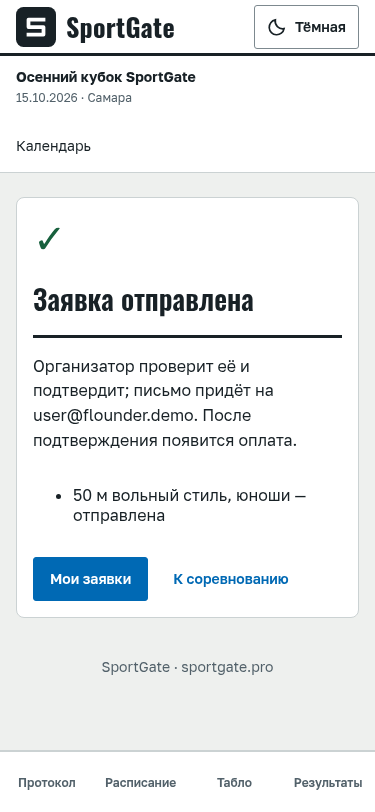
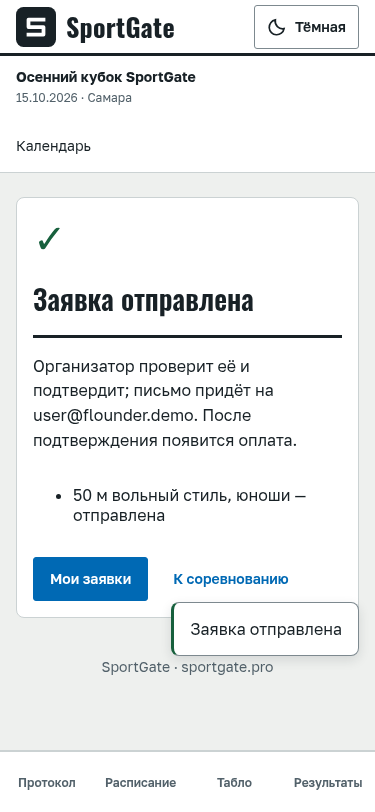
fix(public): cover registration steps in QA06 and size mobile actions

Changed region(s): [[0.4987, 0.7389, 0.9093, 0.8005], [0.44, 0.7389, 0.4693, 0.8005], [0.9387, 0.7389, 0.968, 0.7697]]

diff --git a/sport-platform/frontend/e2e/qa06-d03-register.spec.ts b/sport-platform/frontend/e2e/qa06-d03-register.spec.ts
@@ -1,68 +1,162 @@
-import { test, expect } from '@playwright/test'
+import { test, expect, type Page, type Locator } from '@playwright/test'
 import AxeBuilder from '@axe-core/playwright'
 import { mkdir } from 'node:fs/promises'
 import { openAuditPage, scenario } from './qa06-helpers'
+import type { RegistrationRequest } from '../src/features/public/public.types'
 
-for (const width of [375, 1366]) test(`UX-17 registration layout, errors and accessibility ${width}`, async ({ page }) => {
-  await page.setViewportSize({ width, height: width === 375 ? 812 : 768 })
-  const errors: string[] = []
-  page.on('pageerror', error => errors.push(error.message))
-  await openAuditPage(page, '/e/demo/register', 'participant')
-  const card = page.locator('section').filter({ has: page.getByRole('heading', { name: 'Заявка на участие' }) })
-  const form = card.locator('form')
-  const disciplines = page.getByRole('group', { name: 'Виды программы', exact: true })
-  await expect(disciplines).toBeVisible()
-  await expect(disciplines).toHaveAttribute('disabled', '')
-  await expect(disciplines.getByRole('checkbox').first()).toBeDisabled()
-  expect(await disciplines.getByRole('checkbox').count()).toBeGreaterThan(1)
-  await expect(page.getByText('Укажите пол и дату рождения, чтобы увидеть доступные виды', { exact: true })).toBeVisible()
-  const heading = await card.getByRole('heading', { level: 1 }).boundingBox()
-  const athlete = await page.getByRole('group', { name: 'Данные спортсмена', exact: true }).boundingBox()
-  const box = await card.boundingBox()
-  expect(box!.width).toBeLessThanOrEqual(640)
-  expect(Math.abs(box!.x + box!.width / 2 - width / 2)).toBeLessThan(2)
-  expect(heading!.y + heading!.height).toBeLessThan(athlete!.y)
-  const fields = form.locator('input:not([type=checkbox]), select')
+async function checkLayout(page: Page, form: Locator, width: number) {
+  const fields = form.locator('input:not([type=checkbox]):visible, select:visible')
+  const group = form.locator('fieldset:visible')
+  const box = (await group.boundingBox())!
   for (const field of await fields.all()) {
-    const bounds = await field.boundingBox()
-    expect(bounds!.x).toBeGreaterThanOrEqual(box!.x + 16)
-    expect(bounds!.x + bounds!.width).toBeLessThanOrEqual(box!.x + box!.width - 16)
+    const bounds = (await field.boundingBox())!
+    expect(bounds.x).toBeGreaterThanOrEqual(box.x + 16)
+    expect(bounds.x + bounds.width).toBeLessThanOrEqual(box.x + box.width - 16)
   }
-  const gender = await page.getByLabel('Пол', { exact: true }).boundingBox()
-  const club = await page.getByLabel('Клуб / город', { exact: true }).boundingBox()
-  if (width >= 640) expect(gender!.y).toBe(club!.y)
-  else expect(gender!.y + gender!.height).toBeLessThan(club!.y)
-  await expect(page.getByLabel('Дата рождения', { exact: true })).toHaveAttribute('type', 'date')
+  for (const target of await form.locator('button:visible, input:visible, select:visible').all()) {
+    const bounds = (await target.boundingBox())!
+    expect(bounds.width).toBeGreaterThanOrEqual(44)
+    expect(bounds.height).toBeGreaterThanOrEqual(44)
+    await target.scrollIntoViewIfNeeded()
+    expect(await target.evaluate(element => {
+      const bounds = element.getBoundingClientRect()
+      const hit = document.elementFromPoint(bounds.x + bounds.width / 2, bounds.y + bounds.height / 2)
+      return element === hit || element.contains(hit)
+    })).toBe(true)
+  }
+  expect(await page.evaluate(() => document.documentElement.scrollWidth)).toBeLessThanOrEqual(width)
   for (const theme of ['light', 'dark']) {
     await page.evaluate(theme => document.documentElement.dataset.theme = theme, theme)
     const audit = await new AxeBuilder({ page }).withTags(['wcag2a', 'wcag2aa', 'wcag21aa']).analyze()
     expect(audit.violations.filter(v => ['serious', 'critical'].includes(v.impact ?? ''))).toEqual([])
   }
   await page.evaluate(() => document.documentElement.dataset.theme = 'light')
+}
+
+for (const width of [375, 768, 1366]) test(`UX-17 registration layout, errors and accessibility ${width}`, async ({ page }) => {
+  await page.setViewportSize({ width, height: width === 375 ? 812 : width === 768 ? 1024 : 768 })
+  const errors: string[] = []
+  const submissions: RegistrationRequest[] = []
+  page.on('pageerror', error => errors.push(error.message))
+  page.on('request', request => {
+    if (request.method() === 'POST' && new URL(request.url()).pathname === '/api/v1/public/events/demo/registrations')
+      submissions.push(request.postDataJSON() as RegistrationRequest)
+  })
+  await openAuditPage(page, '/e/demo/register', 'participant')
+  const card = page.locator('section').filter({ has: page.getByRole('heading', { name: 'Заявка на участие' }) })
+  const form = card.locator('form')
+  const athlete = page.getByRole('group', { name: 'Участник', exact: true })
+  const disciplines = page.getByRole('group', { name: 'Виды (до трёх)', exact: true })
+  const steps = page.getByRole('navigation', { name: 'Шаги заявки' })
+  const choices = disciplines.getByRole('button', { name: /Выбрать|Выбрано/ })
+  await expect(athlete).toBeVisible()
+  await expect(disciplines).toBeHidden()
+  await expect(steps.locator('[aria-current=step]')).toHaveText('1 Спортсмен')
+  const heading = (await card.getByRole('heading', { level: 1 }).boundingBox())!
+  const box = (await card.boundingBox())!
+  expect(box.width).toBeLessThanOrEqual(640)
+  expect(heading.y + heading.height).toBeLessThan((await athlete.boundingBox())!.y)
+  if (width < 1200) expect(Math.abs(box.x + box.width / 2 - width / 2)).toBeLessThan(2)
+  else {
+    const layout = (await card.locator('..').boundingBox())!
+    const eventCard = (await page.getByRole('complementary', { name: 'О соревновании' }).boundingBox())!
+    expect(Math.abs(layout.x + layout.width / 2 - width / 2)).toBeLessThan(2)
+    expect(eventCard.width).toBe(280)
+    expect(eventCard.x + eventCard.width).toBeLessThan(box.x)
+  }
+  expect((await card.locator('h1,h2,h3,legend').allTextContents()).join(' ')).not.toMatch(/по плаванию/i)
+  const birth = page.getByLabel('Дата рождения', { exact: true })
+  const gender = page.getByLabel('Пол', { exact: true })
+  const club = page.getByLabel(/Клуб \/ город/)
+  const birthBox = (await birth.boundingBox())!
+  const genderBox = (await gender.boundingBox())!
+  const lastNameBox = (await page.getByLabel('Фамилия', { exact: true }).boundingBox())!
+  const firstNameBox = (await page.getByLabel('Имя', { exact: true }).boundingBox())!
+  if (width >= 768) {
+    expect(birthBox.y).toBe(genderBox.y)
+    expect(lastNameBox.y).toBe(firstNameBox.y)
+  } else {
+    expect(birthBox.y + birthBox.height).toBeLessThan(genderBox.y)
+    expect(lastNameBox.y + lastNameBox.height).toBeLessThan(firstNameBox.y)
+  }
+  expect(genderBox.y + genderBox.height).toBeLessThan((await club.boundingBox())!.y)
+  await expect(birth).toHaveAttribute('type', 'date')
+  await checkLayout(page, form, width)
   if (process.env.D03_CAPTURE === '1') {
     await page.evaluate(() => document.fonts.ready)
     await mkdir('../../docs/design/screenshots', { recursive: true })
     await page.screenshot({ path: `../../docs/design/screenshots/D03-v2-register-${width}.png`, fullPage: true })
   }
-  const send = page.getByRole('button', { name: 'Отправить заявку', exact: true })
-  await send.click()
+
+  // The same eligibility gate applies when the second step is opened directly.
+  await steps.getByRole('button', { name: '2 Виды и время', exact: true }).click()
+  await expect(disciplines).toBeVisible()
+  await expect(disciplines).toHaveAttribute('disabled', '')
+  expect(await choices.count()).toBeGreaterThan(1)
+  for (const choice of await choices.all()) {
+    await expect(choice).toBeDisabled()
+    expect((await choice.boundingBox())!.height).toBeGreaterThanOrEqual(56)
+  }
+  await expect(disciplines.getByRole('checkbox')).toHaveCount(0)
+  await expect(page.getByText('Укажите пол и дату рождения, чтобы увидеть доступные виды', { exact: true })).toBeVisible()
+  await steps.getByRole('button', { name: '1 Спортсмен', exact: true }).click()
+  await page.getByRole('button', { name: 'Далее: Виды и время', exact: true }).click()
   await expect(page.getByLabel('Фамилия', { exact: true })).toHaveAttribute('aria-invalid', 'true')
   await expect(page.locator('#registration-error-lastName')).toBeVisible()
+  await expect(page.getByRole('alert')).toContainText('Фамилия: Укажите фамилию спортсмена.')
+  await expect(page.getByLabel('Фамилия', { exact: true })).toBeFocused()
   await page.getByLabel('Фамилия', { exact: true }).fill('Демов')
   await page.getByLabel('Имя', { exact: true }).fill('Тимофей')
-  await page.getByLabel('Дата рождения', { exact: true }).fill('2014-04-18')
+  await birth.fill('2014-04-18')
+  await steps.getByRole('button', { name: '2 Виды и время', exact: true }).click()
   await expect(disciplines).toHaveAttribute('disabled', '')
-  await page.getByLabel('Пол', { exact: true }).selectOption('M')
+  await expect(choices.first()).toBeDisabled()
+  await steps.getByRole('button', { name: '1 Спортсмен', exact: true }).click()
+  await gender.selectOption('M')
+  await page.getByRole('button', { name: 'Далее: Виды и время', exact: true }).click()
   await expect(disciplines).not.toHaveAttribute('disabled')
-  await disciplines.getByRole('checkbox').nth(1).check()
-  await page.getByPlaceholder('мм:сс.сс').fill('003215')
-  // Clicking the consent text toggles its associated checkbox.
+  await expect(steps.locator('[aria-current=step]')).toHaveText('2 Виды и время')
+  const selectedCard = choices.filter({ hasText: '50 м вольный стиль, юноши' }).first()
+  await selectedCard.click()
+  await expect(selectedCard).toHaveAttribute('aria-pressed', 'true')
+  const seed = page.getByPlaceholder('мм:сс.сс')
+  await expect(seed).toHaveAttribute('required', '')
+  const errorId = (await seed.getAttribute('aria-describedby'))!.split(' ').find(id => id.startsWith('registration-error-'))!
+  const seedError = page.locator(`[id="${errorId}"]`)
+  const reservedHeight = (await seedError.boundingBox())!.height
+  await page.getByRole('button', { name: 'Далее: Проверка', exact: true }).click()
+  await expect(seed).toHaveAttribute('aria-invalid', 'true')
+  await expect(seedError).toHaveText('Укажите заявочное время в формате мм:сс.сс.')
+  await expect(seed).toBeFocused()
+  expect((await seedError.boundingBox())!.height).toBe(reservedHeight)
+  await seed.fill('006000')
+  await page.getByRole('button', { name: 'Далее: Проверка', exact: true }).click()
+  await expect(seedError).toHaveText('Введите ненулевое время в формате мм:сс.сс (секунды 00–59).')
+  await seed.fill('003215')
+  await expect(seed).toHaveValue('00:32.15')
+  await checkLayout(page, form, width)
+  await page.getByRole('button', { name: 'Далее: Проверка', exact: true }).click()
+  await expect(steps.locator('[aria-current=step]')).toHaveText('3 Проверка')
+  await page.reload()
+  await expect(page.getByRole('heading', { name: '3. Проверка', exact: true })).toBeVisible({ timeout: 30000 })
+  await expect(page.getByText('Демов Тимофей', { exact: true })).toBeVisible()
+  await expect(page.getByText('00:32.15', { exact: true })).toBeVisible()
+  const send = page.getByRole('button', { name: 'Отправить заявку', exact: true })
+  await expect(send).toBeDisabled()
+  await expect(page.locator('#registration-disabled-reason')).toHaveText('Необходимо согласие на обработку персональных данных.')
+  // The full consent label remains a tap target.
   await page.getByText('Я даю согласие на обработку персональных данных', { exact: true }).click()
   await expect(page.getByRole('checkbox', { name: 'Я даю согласие на обработку персональных данных' })).toBeChecked()
+  await expect(send).toBeEnabled()
   if (width === 375) expect((await send.boundingBox())!.width).toBeGreaterThan(250)
+  await checkLayout(page, form, width)
   await scenario(page, 'public/events/demo/registrations', [{ id: 'new-registration' }], 'json', 'post')
   await send.click()
   await expect(page.getByRole('heading', { name: 'Заявка отправлена' })).toBeVisible()
+  expect(submissions).toEqual([{
+    profile: { lastName: 'Демов', firstName: 'Тимофей', middleName: '', birthDate: '2014-04-18', gender: 'M', club: '' },
+    items: [{ eventDisciplineId: 'M-50-FREE', seedTimeMs: 32150 }],
+  }])
   expect(await page.evaluate(() => document.documentElement.scrollWidth)).toBeLessThanOrEqual(width)
   expect(errors).toEqual([])
 })

diff --git a/sport-platform/frontend/src/features/public/RegistrationPage.module.css b/sport-platform/frontend/src/features/public/RegistrationPage.module.css
@@ -8,9 +8,10 @@
 .form { display: grid; gap: var(--space-4); min-width: 0; }
 .form [hidden] { display: none; }
 .form fieldset { min-width: 0; background: var(--surface-1); border-radius: var(--radius-lg); }
-.form input:not([type=checkbox]), .form select { min-height: var(--control-h); font-size: var(--text-md); scroll-margin-block-end: calc(var(--control-h-lg) + var(--space-12)); }
+.form input:not([type=checkbox]), .form select { min-height: var(--control-h); font-size: var(--text-md); }
+.form :is(input, select, button) { scroll-margin-block-start: calc(var(--header-h) + var(--space-4)); scroll-margin-block-end: calc(var(--control-h-lg) + var(--control-h) + var(--space-12)); }
 .form input[type=date] { display: block; max-width: 100%; }
-.form :global(.fl-field) { gap: var(--space-2); }
+.form :global(.fl-field) { gap: var(--space-2); align-content: start; }
 .form .fieldError { min-height: calc(var(--text-xs) * var(--line-height-body) * 2); color: var(--color-danger); font-size: var(--text-xs); line-height: var(--line-height-body); font-weight: 400; }
 .pair { display: grid; gap: var(--space-4); min-width: 0; }
 .optional, .draft, .discipline small, .sticky small { color: var(--color-text-muted); font-size: var(--text-xs); font-weight: 400; }
@@ -40,8 +41,8 @@
 .actions { display: flex; flex-wrap: wrap; gap: var(--space-2); }
 .actions :global(.fl-btn) { min-height: var(--control-h); }
 .sticky { position: sticky; bottom: 0; z-index: var(--z-header); display: grid; gap: var(--space-2); background: var(--surface-1); padding: var(--space-3); padding-bottom: max(var(--space-3), env(safe-area-inset-bottom)); border-top: 1px solid var(--border-subtle); box-shadow: var(--shadow-sticky); }
-.sticky .actions { flex-wrap: nowrap; }
-.sticky .actions :global(.fl-btn-primary) { flex: 1; white-space: normal; }
+.sticky .actions { display: grid; grid-template-columns: minmax(0, 1fr); }
+.sticky .actions :global(.fl-btn-primary) { width: 100%; white-space: normal; }
 .sticky small { text-align: center; }
 .eventCard { display: none; }
 .loading { display: grid; gap: var(--space-4); }
@@ -54,8 +55,8 @@
   .form fieldset { padding: var(--space-6); }
   .wizard :global(.fl-btn) { font-size: var(--text-sm); padding: var(--space-2); }
   .sticky { position: static; border: 0; box-shadow: none; padding: var(--space-4) 0; background: transparent; }
-  .sticky .actions { justify-content: flex-end; }
-  .sticky .actions :global(.fl-btn-primary) { flex: 0 1 auto; }
+  .sticky .actions { display: flex; flex-wrap: nowrap; justify-content: flex-end; }
+  .sticky .actions :global(.fl-btn-primary) { width: auto; flex: 0 1 auto; }
 }
 @media (min-width: 1200px) {
   .layout { grid-template-columns: calc(var(--space-10) * 7) minmax(0, 1fr); }
